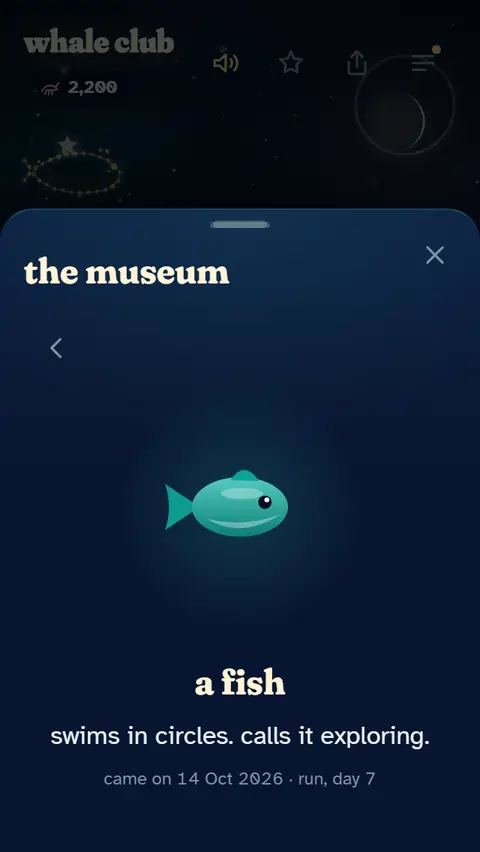
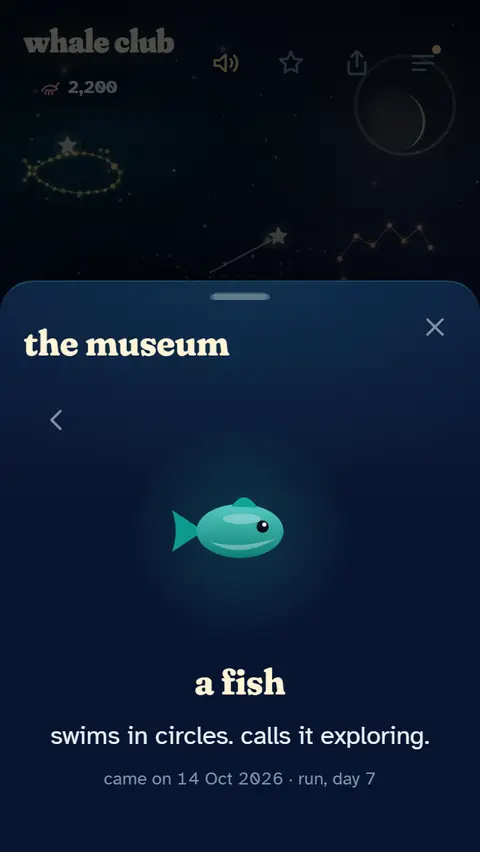
The museum's case: the find sits up under the back arrow
A pool of light a little smaller, pulled up under the row with the back
arrow, which stays on top: the gap between them read as empty space.

diff --git a/src/styles/sheet.css b/src/styles/sheet.css
@@ -332,12 +332,19 @@
   text-align: center;
 }
 
+/* The back row stays above the find, which sits up under it: the pool of
+   light is clear at its edge, so the two can overlap without a gap. */
+.case-head {
+  position: relative;
+  z-index: 1;
+}
+
 .case-art {
   display: grid;
   place-items: center;
-  width: 168px;
-  height: 168px;
-  margin-bottom: var(--s2);
+  width: 152px;
+  height: 152px;
+  margin-top: calc(-1 * var(--s6));
   border-radius: 50%;
   background: radial-gradient(closest-side, rgba(62, 242, 224, 0.16), transparent);
 }
@@ -347,8 +354,8 @@
 }
 
 .case-art svg {
-  width: 128px;
-  height: 128px;
+  width: 116px;
+  height: 116px;
   overflow: visible;
 }
 
